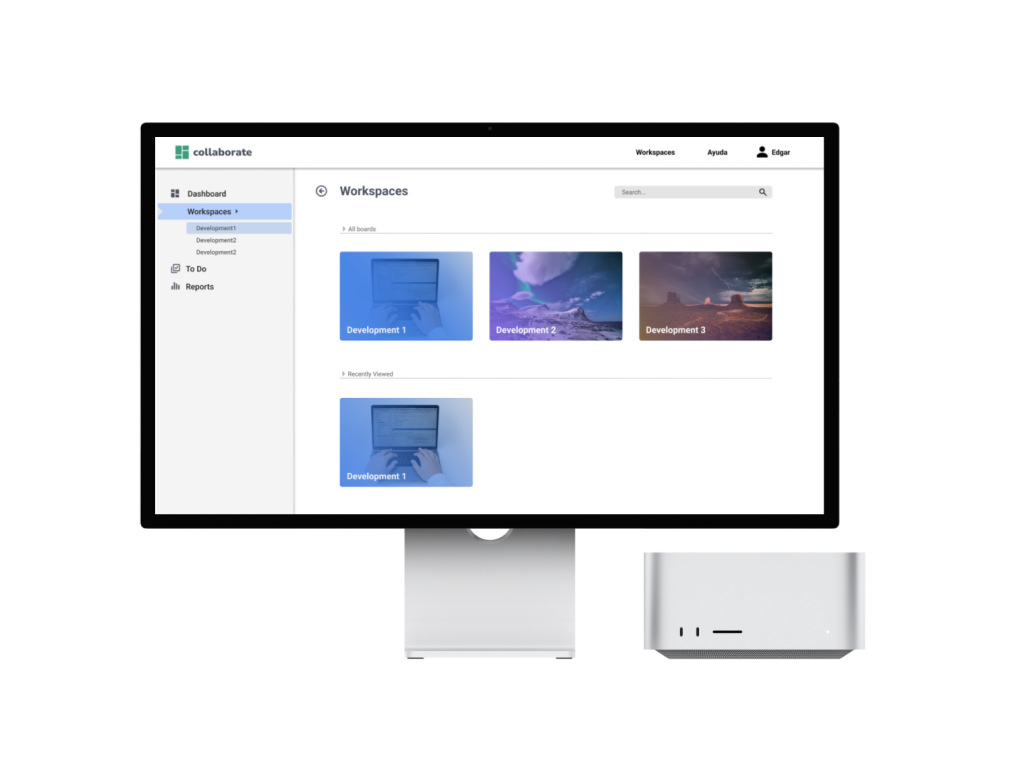
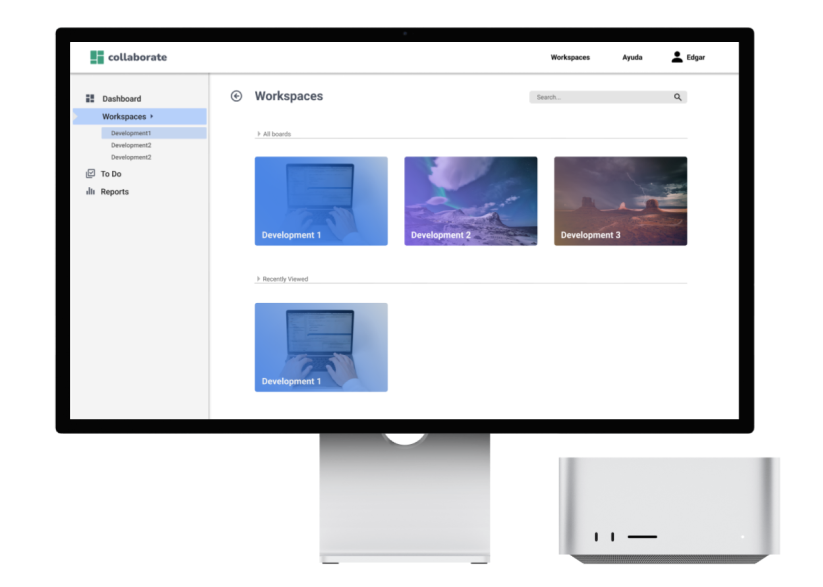
feat: adding sections to landing page

diff --git a/src/app/page.tsx b/src/app/page.tsx
@@ -1,24 +1,33 @@
 import { Hero, Navbar } from '@/components/landing'
 import { Banner } from '@/components/landing/banner/banner'
+import { Button } from '@/components/ui'
 import { validateUser } from '@/services/auth'
 import { css } from '~root/styled-system/css'
-
-const classes = {
-  root: css({
-    maxWidth: 'breakpoint-2xl',
-    mx: 'auto',
-    py: 64
-  })
-}
 
 export default async function Home() {
   const { isLoggedIn } = await validateUser()
   return (
     <>
       <Navbar isLoggedIn={isLoggedIn} />
-      <main className={classes.root}>
-        <Hero />
+      <Hero />
+      <main>
         <Banner />
+        <section className={css({ backgroundColor: '#151515', color: 'white' })}>
+          <div className={css({
+            maxWidth: 'breakpoint-2xl',
+            mx: 'auto',
+            py: 64
+          })}>
+            <h2 className={css({
+              fontSize: '4xl',
+              fontWeight: 'extraBold',
+              mb: 32
+            })}>
+              Collaborate join's people with common goals
+            </h2>
+            <Button>Sign Up - It's free</Button>
+          </div>
+        </section>
       </main>
     </>
   )

diff --git a/src/components/landing/banner/banner.styled.tsx b/src/components/landing/banner/banner.styled.tsx
@@ -2,20 +2,22 @@ import { css } from '~root/styled-system/css'
 
 export default {
   container: css({
+    maxWidth: 'breakpoint-2xl',
+    mx: 'auto',
     display: 'flex',
-    gap: 64,
+    gap: 24,
     py: 64
   }),
 
   paragraph: css({
     display: 'flex',
     flexDir: 'column',
-    gap: 32,
+    gap: 24,
     textAlign: 'end',
     w: '100%',
     '& h2': {
-      fontSize: '3xl',
-      fontWeight: 'bold',
+      fontSize: '4xl',
+      fontWeight: 'extraBold',
       color: 'heading'
     },
     '& p': {
@@ -26,8 +28,15 @@ export default {
 
   figure: css({
     pos: 'relative',
-    w: '3/4',
-    aspectRatio: 'square',
-    filter: 'dropShadow(5px 5px 10px #000000)'
+    w: '110%',
+    aspectRatio: 'mockMac',
+    rounded: 10,
+    filter: 'dropShadow(5px 5px 10px #000000)',
+    shadow: 'sm',
+    '& img': {
+      objectFit: 'cover',
+      rounded: 10,
+      objectPosition: 'top'
+    }
   })
 }

diff --git a/src/components/landing/hero/hero.styled.tsx b/src/components/landing/hero/hero.styled.tsx
@@ -5,14 +5,23 @@ export const classes = {
     display: 'flex',
     flexDir: 'column',
     gap: 48,
-    alignItems: 'center'
+    py: 64,
+    px: 24,
+    alignItems: 'center',
+    backgroundImage: 'url("/background.svg")',
+    backgroundPosition: 'bottom',
+    backgroundRepeat: 'no-repeat',
+    zoom: '120%',
+    lg: {
+      py: 48
+    }
   }),
 
   h1: css({
-    fontSize: '3xl',
+    fontSize: '2xl',
     fontWeight: 'extraBold',
     textAlign: 'center',
-    color: 'neutral',
+    color: 'white',
     md: {
       fontSize: '5xl'
     }
@@ -24,7 +33,7 @@ export const classes = {
     aspectRatio: 'landscape',
     filter: 'dropShadow(5px 5px 10px #000000)',
     lg: {
-      w: '1/2'
+      w: '1/3'
     }
   })
 }

diff --git a/src/app/actions/authActions.ts b/src/app/actions/authActions.ts
@@ -4,8 +4,6 @@ import { loginService } from '@/services/auth'
 import type { Credentials } from '@/types/auth-types.d'
 
 export async function loginAction(credentials: Credentials) {
-  console.log('esta es la accion')
-
   const response = await loginService(credentials)
   console.log('🚀 ~ loginAction ~ response:', response)
 

diff --git a/src/theme/tokens/aspect-ratios.ts b/src/theme/tokens/aspect-ratios.ts
@@ -3,5 +3,6 @@ export const aspectRatios = {
   landscape: { value: '4 / 3' },
   portrait: { value: '3 / 4' },
   video: { value: '16 / 9' },
-  ultrawide: { value: '18 / 5' }
+  ultrawide: { value: '18 / 5' },
+  mockMac: { value: '756 / 491' }
 }

diff --git a/src/components/landing/banner/banner.tsx b/src/components/landing/banner/banner.tsx
@@ -1,5 +1,5 @@
 import Image from 'next/image'
-import img from '~root/public/creative-landing.png'
+import img from '~root/public/dashboard-customize.png'
 import classes from './banner.styled'
 
 export function Banner() {
